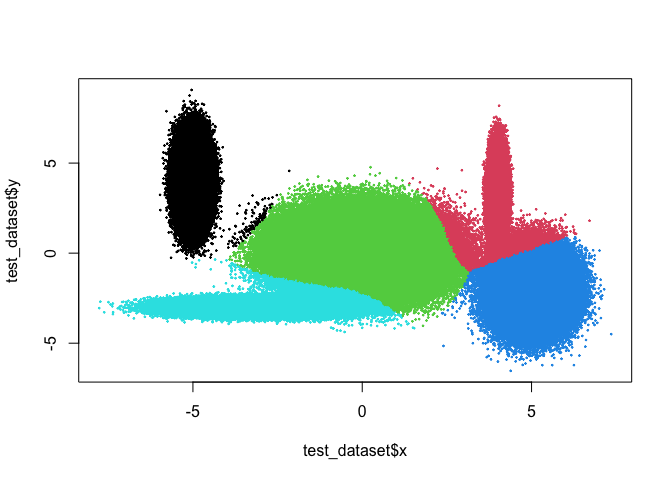
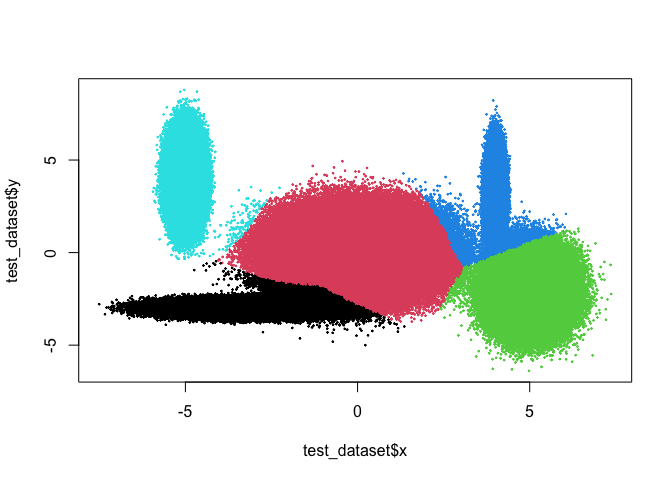
Added README with example

diff --git a/README.md b/README.md
@@ -1,0 +1,171 @@
+
+<!-- README.md is generated from README.Rmd. Please edit that file -->
+
+# sbclust
+
+<!-- badges: start -->
+<!-- badges: end -->
+
+The goal of sbclust is to provide an approach to cluster large datasets
+through a sample-based bagged clustering algorithm, which is effectively
+just the `bclust` function from the `e1071` package with one tiny edit
+that allows to grab a sample of the dataset for each run instead of the
+whole dataset.
+
+## Installation
+
+You can install the development version of sbclust from
+[GitHub](https://github.com/) with:
+
+``` r
+# install.packages("devtools")
+devtools::install_github("sdesabbata/sbclust")
+```
+
+## Example
+
+This is a basic example of clustering a large dataset using `sbclust`:
+
+``` r
+library(sbclust)
+```
+
+Create test dataset containing three million cases with two attributes
+and five clusters, using approach suggested by [Wang et
+al. (2008)](https://onlinelibrary.wiley.com/doi/10.1002/int.20268).
+
+``` r
+# Size
+test_dataset_size <- 3000000
+
+# Proportions of the five clusters
+centres_prop <- c(0.2, 0.2, 0.3, 0.1, 0.2)
+
+# Clusters' centers
+centres_mean <- array(
+  c(-3, 0, 4, 5, -5, -3, 0, 3, -2, 4),
+  c(5, 2)
+)
+
+# Clusters standard deviation
+centres_sd <- array(
+  c(1, 1, 0.1, 0.5, 0.2, 0.2, 1, 1, 1, 1),
+  c(5, 2)
+)
+
+# Values dataset
+values_x <- c()
+values_y <- c()
+values_cluster <- c()
+for (i in 1:5) {
+  values_x <-
+    c(
+      values_x,
+      rnorm(n = test_dataset_size*centres_prop[i], mean = centres_mean[i, 1], sd = centres_sd[i, 1])
+    )
+  values_y <-
+    c(
+      values_y,
+      rnorm(n = test_dataset_size*centres_prop[i], mean = centres_mean[i, 2], sd = centres_sd[i, 2])
+    )
+  values_cluster <-
+    c(
+      values_cluster,
+      rep(as.character(i), test_dataset_size*centres_prop[i])
+    )
+}
+
+# Create dataset
+test_dataset <- data.frame(
+  x = values_x,
+  y = values_y,
+  cluster = values_cluster
+)
+```
+
+Plot the example dataset.
+
+``` r
+plot(
+  test_dataset$x, test_dataset$y,
+  col = test_dataset$cluster,
+  pch = 19,
+  cex = 0.2
+)
+```
+
+<img src="man/figures/README-plot_dataset-1.png" width="100%" />
+
+Run the clustering algorithm and save the results as a new column of the
+dataset.
+
+``` r
+# Clustering
+start_time <- Sys.time()
+
+clustering_result <-
+  sbclust(
+    test_dataset[,c("x", "y")],
+    centers = 5,
+    iter.max = 5000,
+  )
+#> Committee Member: 1(1)
+#>  2(1)
+#> Warning: Quick-TRANSfer stage steps exceeded maximum (= 1500000)
+#> 
+#>  3(1)
+#>  4(1)
+#>  5(1)
+#>  6(1)
+#>  7(1)
+#> Warning: Quick-TRANSfer stage steps exceeded maximum (= 1500000)
+#> 
+#>  8(1)
+#>  9(1)
+#>  10(1)
+#> 
+#> Computing Hierarchical Clustering
+
+end_time <- Sys.time()
+
+# Check time lapsed
+end_time - start_time
+#> Time difference of 2.67084 secs
+
+# Save results
+test_dataset["sbclust"] <- clustering_result$cluster
+```
+
+Plot the clustering results.
+
+``` r
+plot(
+  test_dataset$x, test_dataset$y,
+  col = test_dataset$sbclust,
+  pch = 19,
+  cex = 0.2
+)
+```
+
+<img src="man/figures/README-plot_results-1.png" width="100%" />
+
+Compare the list of test centers with the results of the clustering
+procedure.
+
+``` r
+# Comparison
+centres_mean
+#>      [,1] [,2]
+#> [1,]   -3   -3
+#> [2,]    0    0
+#> [3,]    4    3
+#> [4,]    5   -2
+#> [5,]   -5    4
+clustering_result$centers
+#>             [,1]        [,2]
+#> [1,] -2.96229101 -2.98186875
+#> [2,]  0.00299013  0.02204801
+#> [3,]  4.99214533 -2.01441956
+#> [4,]  3.99986538  2.98577007
+#> [5,] -4.99712398  3.99011194
+```
